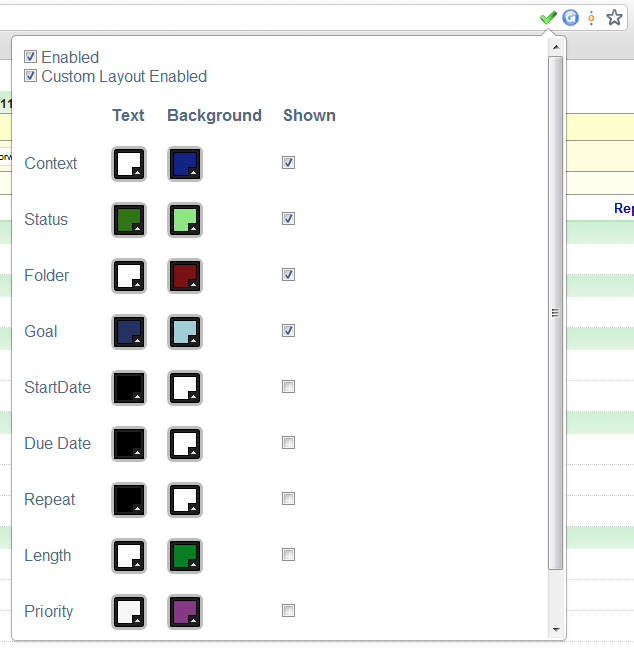
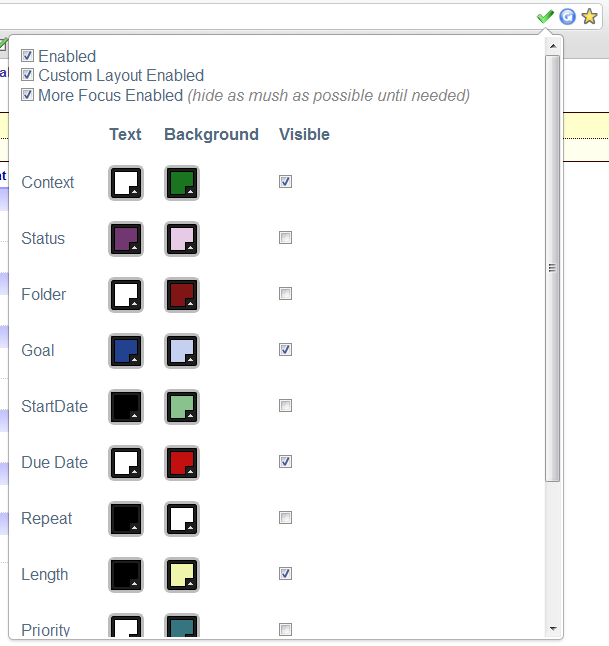
v1.1 features

diff --git a/src/main/plugin/js/helper.js b/src/main/plugin/js/helper.js
@@ -1,7 +1,12 @@
 $(function() {
     chrome.extension.sendRequest({getStorage: true}, function(response) {
         var ls = response.ls
-        var enabled = {all: ls["enabled-all"] == null || ls["enabled-all"] == undefined || ls["enabled-all"] == "true", layout: ls["enabled-layout"] == null || ls["enabled-layout"] == undefined || ls["enabled-layout"] == "true"}
+
+        function isEnabled (name) {
+            return ls["enabled-" + name] == null || ls["enabled-" + name] == undefined || ls["enabled-" + name] == "true"
+        }
+
+        var enabled = {all: isEnabled("all"), layout: isEnabled("layout"), hide: isEnabled("hide")}
 
         function setupPage() {
             addScript("Ajax.Responders.register({onComplete: function(obj) {if (!obj.url.match(/.*(set_cookie.php|get_contexts.php|get_tags.php)$/)) {var customEvent = document.createEvent('Event');customEvent.initEvent('ajaxRequest', true, true);$('ajaxInfo').dispatchEvent(customEvent)}}})")
@@ -20,6 +25,7 @@ $(function() {
 
         function doStuff() {
             ifEnabled(function (layout) {
+                console.info("doStuff")
                 changeLook("con", "context", layout)
                 changeLook("sat", "status", layout)
                 changeLook("fol", "folder", layout)
@@ -30,18 +36,96 @@ $(function() {
                 changeLook("len", "length", layout)
                 changeLook("pri", "priority", layout)
                 changeLook("tag", "tag", layout)
+                changeLook("loc", "location", layout)
+                changeLook("tim", "timer", layout)
 
                 if (layout) {
                     $(".dett:has(span[id^='tsk'])").addClass("taskHighlightedLayedout")
+                    $(".del, .not").addClass("iconLayedout")
                 }
+                setupHide(layout)
             })
         }
+
+        var hideStrategy = {
+            layout: {
+                show: function(elem$) {
+                    elem$.show()
+                },
+
+                hide: function (elem$) {
+                    elem$.hide()
+                }
+            },
+
+            noLayout: {
+                show: function(elem$) {
+                    elem$.css({visibility: 'visible'})
+                },
+                hide: function (elem$) {
+                    elem$.css({visibility: 'hidden'})
+                }
+            }
+        }
+
+        function classOff(name, where) {
+            $("." + name, where).removeClass(name).addClass(name + "-off")
+        }
+
+        function classOn(name, where) {
+            $("." + name + "-off", where).removeClass(name + "-off").addClass(name)
+        }
+
+        function setupHide(layout) {
+            var strategy = layout ? hideStrategy.layout : hideStrategy.noLayout
+
+            if (enabled.hide) {
+                strategy.hide($("#tasks .dett.highlightNone, #tasks .del2, #tasks .del, #tasks .not"))
+
+                $("#tasks .row").filter(function () {
+                    return $(this).data("hProcessed") ? false : true
+                }).data("hProcessed", true).mouseenter(function (ev) {
+                    var t = ev.target
+
+                    if (layout) {
+                        classOff("highlightedLayedout", t)
+                        classOff("taskHighlightedLayedout", t)
+                        strategy.show($(".hInvisible",  t))
+                        $(".highlightedDiv-l", t).removeClass("highlightedDiv-l").addClass("highlightedDiv")
+                    }
+
+                    strategy.show($(".dett.highlightNone", t))
+                    strategy.show($(".del2", t))
+                    strategy.show($(".del", t))
+                    strategy.show($(".not", t))
+                }).mouseleave(function (ev) {
+                    var t =$(ev.target)
+
+                    if (!t.hasClass("row")) {
+                        t = t.parents(".row")
+                    }
+
+                    if (layout) {
+                        classOn("highlightedLayedout", t)
+                        classOn("taskHighlightedLayedout", t)
+                        strategy.hide($(".hInvisible", t))
+                        $(".highlightedDiv", t).removeClass("highlightedDiv").addClass("highlightedDiv-l")
+                    }
+
+                    strategy.hide($(".dett.highlightNone", t))
+                    strategy.hide($(".del2", t))
+                    strategy.hide($(".del", t))
+                    strategy.hide($(".not", t))
+                })
+            }
+        }
+
+        var emptySpan = "span:empty, span:contains('none'), span:contains('None'), span:contains('no date'), span:contains('No Folder'), span:contains('No Goal'), span:contains('No Context'), span:contains('0 Low'), span:contains('No Location')"
 
         function changeLook(prefix, name, layout) {
             var back = ls[name + "-back"]
             var text = ls[name + "-text"]
             var show = ls[name + "-show"] == "true" ? true :(ls[name + "-show"] == "false" ? false : true)
-            var prefix
 
             var css = {
                 "background-color": "#" + back + " !important",
@@ -51,7 +135,7 @@ $(function() {
 
             $("div.dets_top2 span[id^='" + prefix + "']:not(span[id^='lenx'])", "#tasks").addClass("highlightedTopSpan").css(css).map(function () {
                 var parent$ = $(this).parent()
-                $("span:contains('none'), span:contains('None'), span:contains('no date'), span:contains('No Folder'), span:contains('No Goal'), span:contains('No Context')", parent$)
+                $(emptySpan, parent$)
                     .map(function () {
                         parent$.addClass("highlightNone")
                     })
@@ -61,21 +145,26 @@ $(function() {
                 var dett$ = $(this)
                 var span$ = $("span", dett$)
 
-                span$.addClass("highlightedSpan" + (layout ? "-l" : "")).css(cssSpan)
+                // restore state
+                dett$.removeClass("highlightNone highlightedLayedout hInvisible highlighted").css({visibility: "visible"}).show()
+
+                span$.css(cssSpan)
                 dett$.addClass("highlightedDiv" + (layout ? "-l" : "")).css(css)
 
-                $("span:contains('none'), span:contains('None'), span:contains('no date'), span:contains('No Folder'), span:contains('No Goal'), span:contains('No Context')", dett$)
-                    .map(function () {
-                        dett$.addClass("highlightNone")
-                    })
+                $(emptySpan, dett$).map(function () {dett$.addClass("highlightNone")})
+//                $(notEmptySpan, dett$).map(function () {dett$.removeClass("highlightNone").show()})
 
-                if (show && layout) {
-                    $(this).addClass("highlightedLayedout")
+                if (show) {
+                    if (layout) {
+                        dett$.addClass("highlightedLayedout")
+                    }
                 } else {
                     if (layout) {
-                        $(this).hide()
+                        dett$.addClass("hInvisible").hide()
                     }
                 }
+
+                dett$.addClass("highlighted")
             })
         }
 

diff --git a/src/main/plugin/popup.html b/src/main/plugin/popup.html
@@ -75,13 +75,19 @@
         .settings {
             width: 100%;
         }
+
+        .note {
+            font-style:italic;
+            color: #858484;
+        }
     </style>
 </head>
 
 <body style="width: 550px; height: 500px;">
     <div style="padding:10px; text-align: left">
         <input id="ea" type="checkbox" data-elem="enabled" data-type="all" /> <label for="ea">Enabled</label> <br>
-        <input id="el" type="checkbox" data-elem="enabled" data-type="layout" /> <label for="el">Custom Layout Enabled</label>
+        <input id="el" type="checkbox" data-elem="enabled" data-type="layout" /> <label for="el">Custom Layout Enabled</label> <br>
+        <input id="eh" type="checkbox" data-elem="enabled" data-type="hide" /> <label for="eh">More Focus Enabled <span class="note">(hide as mush as possible until needed)</span></label>
     </div>
 
     <table class="settings">
@@ -89,7 +95,7 @@
             <th>&nbsp;</th>
             <th style="white-space:nowrap;">Text</th>
             <th style="white-space:nowrap;">Background</th>
-            <th style="width:100%">Shown</th>
+            <th style="width:100%">Visible</th>
         </tr>
 
         <tr>
@@ -151,6 +157,18 @@
             <td><div class="colorSelector" data-elem="tag" data-type="text"></div></td>
             <td><div class="colorSelector" data-elem="tag" data-type="back"></div></td>
             <td><input type="checkbox" data-elem="tag" data-type="show" /></td>
+        </tr>
+        <tr>
+            <td>Location</td>
+            <td><div class="colorSelector" data-elem="location" data-type="text"></div></td>
+            <td><div class="colorSelector" data-elem="location" data-type="back"></div></td>
+            <td><input type="checkbox" data-elem="location" data-type="show" /></td>
+        </tr>
+        <tr>
+            <td>Timer</td>
+            <td><div class="colorSelector" data-elem="timer" data-type="text"></div></td>
+            <td><div class="colorSelector" data-elem="timer" data-type="back"></div></td>
+            <td><input type="checkbox" data-elem="timer" data-type="show" /></td>
         </tr>
     </table>
 

diff --git a/src/main/plugin/css/style.css b/src/main/plugin/css/style.css
@@ -7,7 +7,7 @@
     margin-left: -3px !important;
 }
 
-.highlightedSpan {
+.highlightedDiv span {
 
 }
 
@@ -17,7 +17,7 @@
     padding-right: 4px !important;
 }
 
-.highlightedSpan-l {
+.highlightedDiv-l span {
     display: inline-block;
 }
 
@@ -38,4 +38,10 @@
 
 .taskHighlightedLayedout {
     width: auto !important;
+}
+
+.iconLayedout {
+    float: left !important;
+    padding-left: 5px;
+    padding-right: 5px;
 }

diff --git a/src/main/plugin/css/small-font.css b/src/main/plugin/css/small-font.css
@@ -11,6 +11,11 @@
     margin-top: -1px !important;
 }
 
+.highlighted {
+    padding-top: 3px;
+    padding-bottom: 3px;
+}
+
 .highlightedTopSpan, .highlightedTopSpan:hover {
     padding: 1px 3px !important;
     border: 0px !important;

diff --git a/src/main/plugin/css/big-font.css b/src/main/plugin/css/big-font.css
@@ -136,3 +136,7 @@ padding-bottom: 20px !important;
 .field {
   height: 62px !important;
 }
+
+.dett img.timer {
+    vertical-align: middle;
+}
